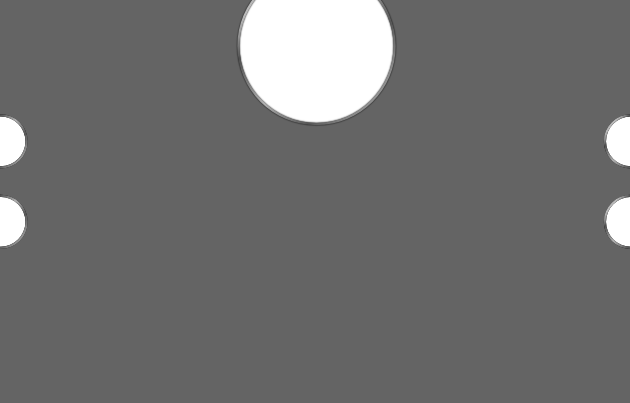
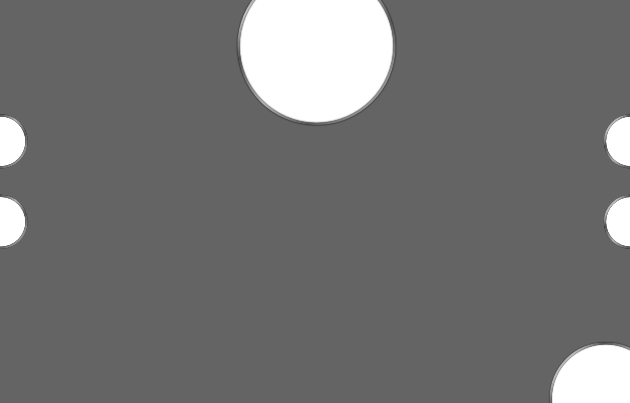
TUTORIAL ist fertig!

Changed region(s): [[0.8746, 0.8337, 1.0, 1.0]]

diff --git a/main/TheStreet/src/com/stalkindustries/main/game/Ressources.java b/main/TheStreet/src/com/stalkindustries/main/game/Ressources.java
@@ -131,7 +131,7 @@ public class Ressources {
 			e.printStackTrace();
 		}
 		
-		tutorial = new BufferedImage[5];
+		tutorial = new BufferedImage[11];
 		for(int i = 1; i < tutorial.length; i++) {
 			try {
 				tutorial[i] = ImageIO.read(new File(Ressources.HOMEDIR+"res\\tutorial\\tutorial_overlay" + i + ".png"));
